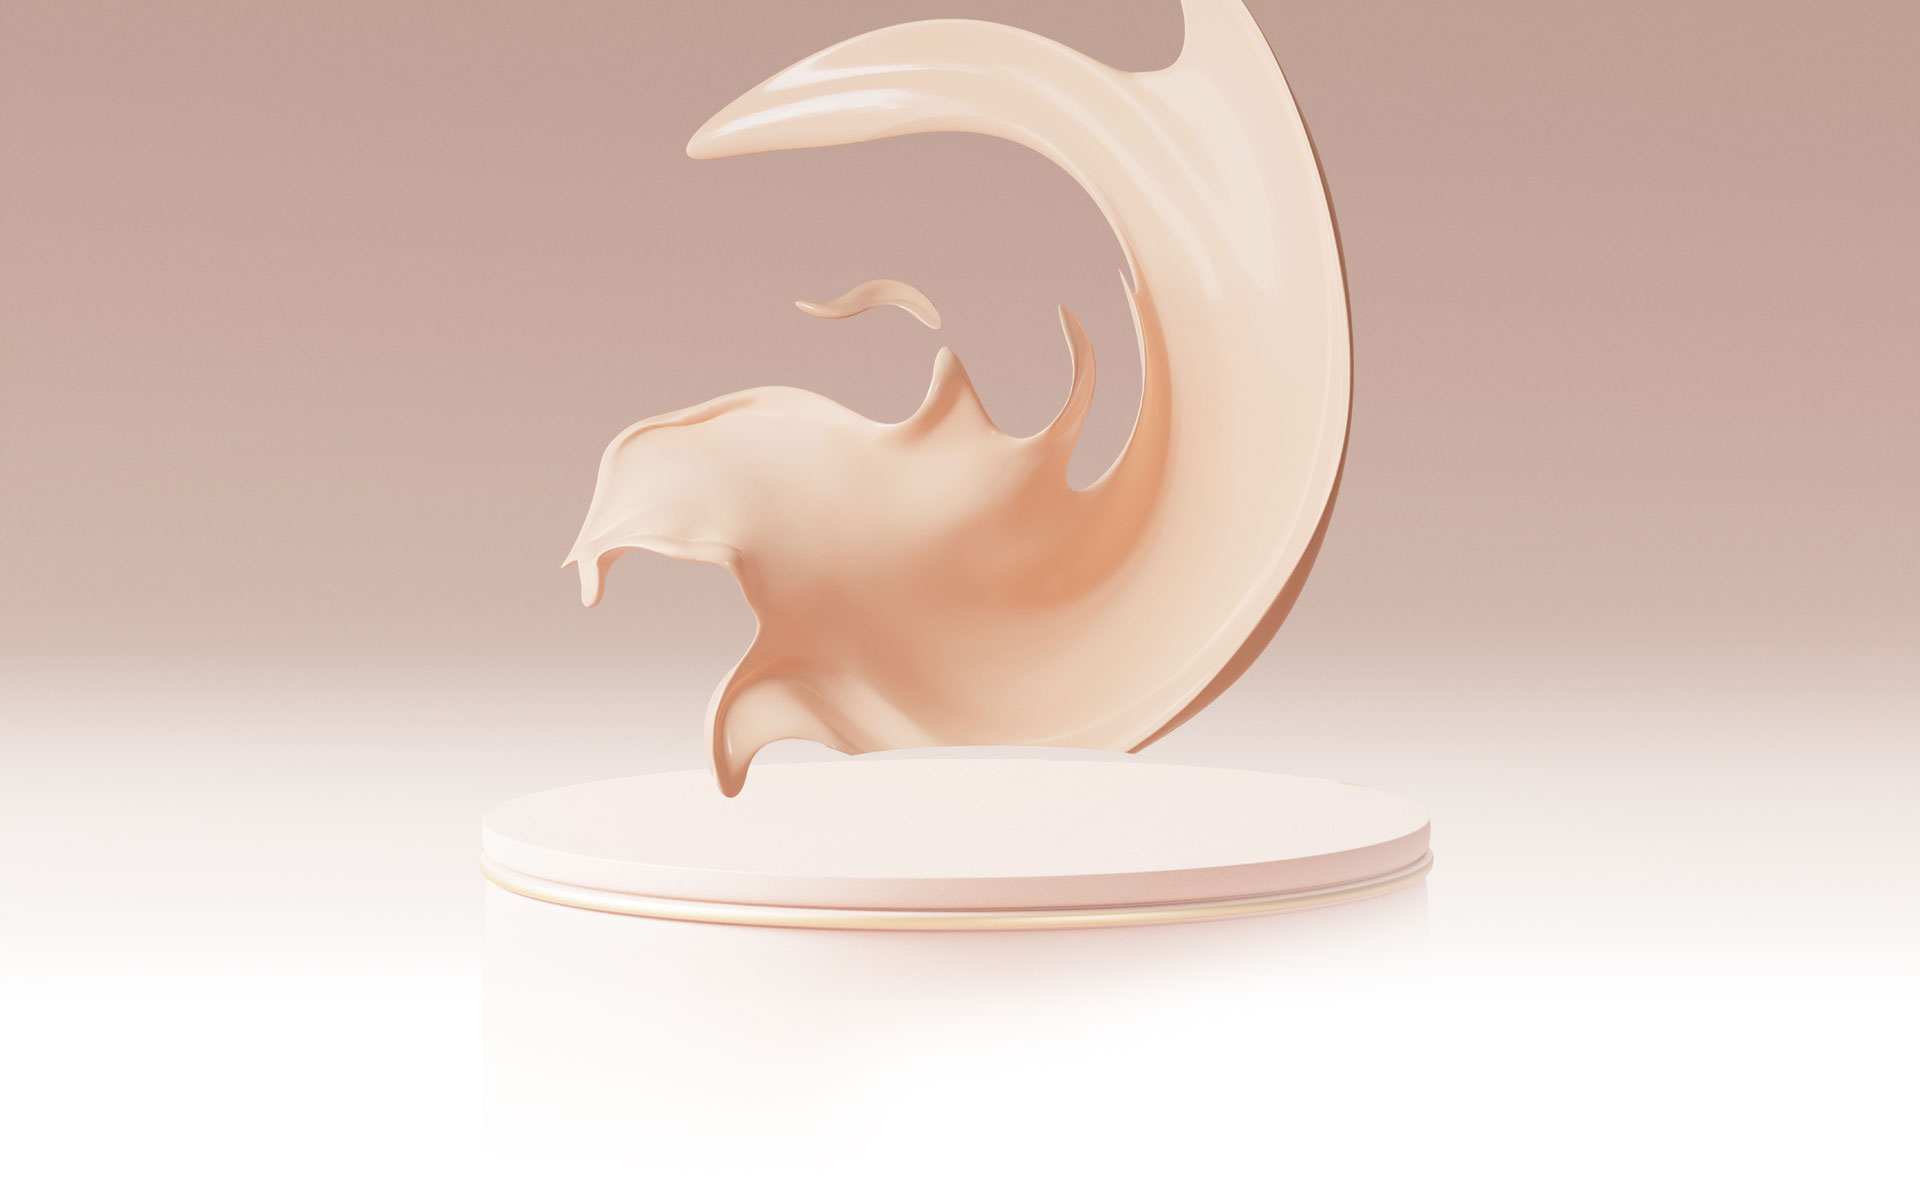
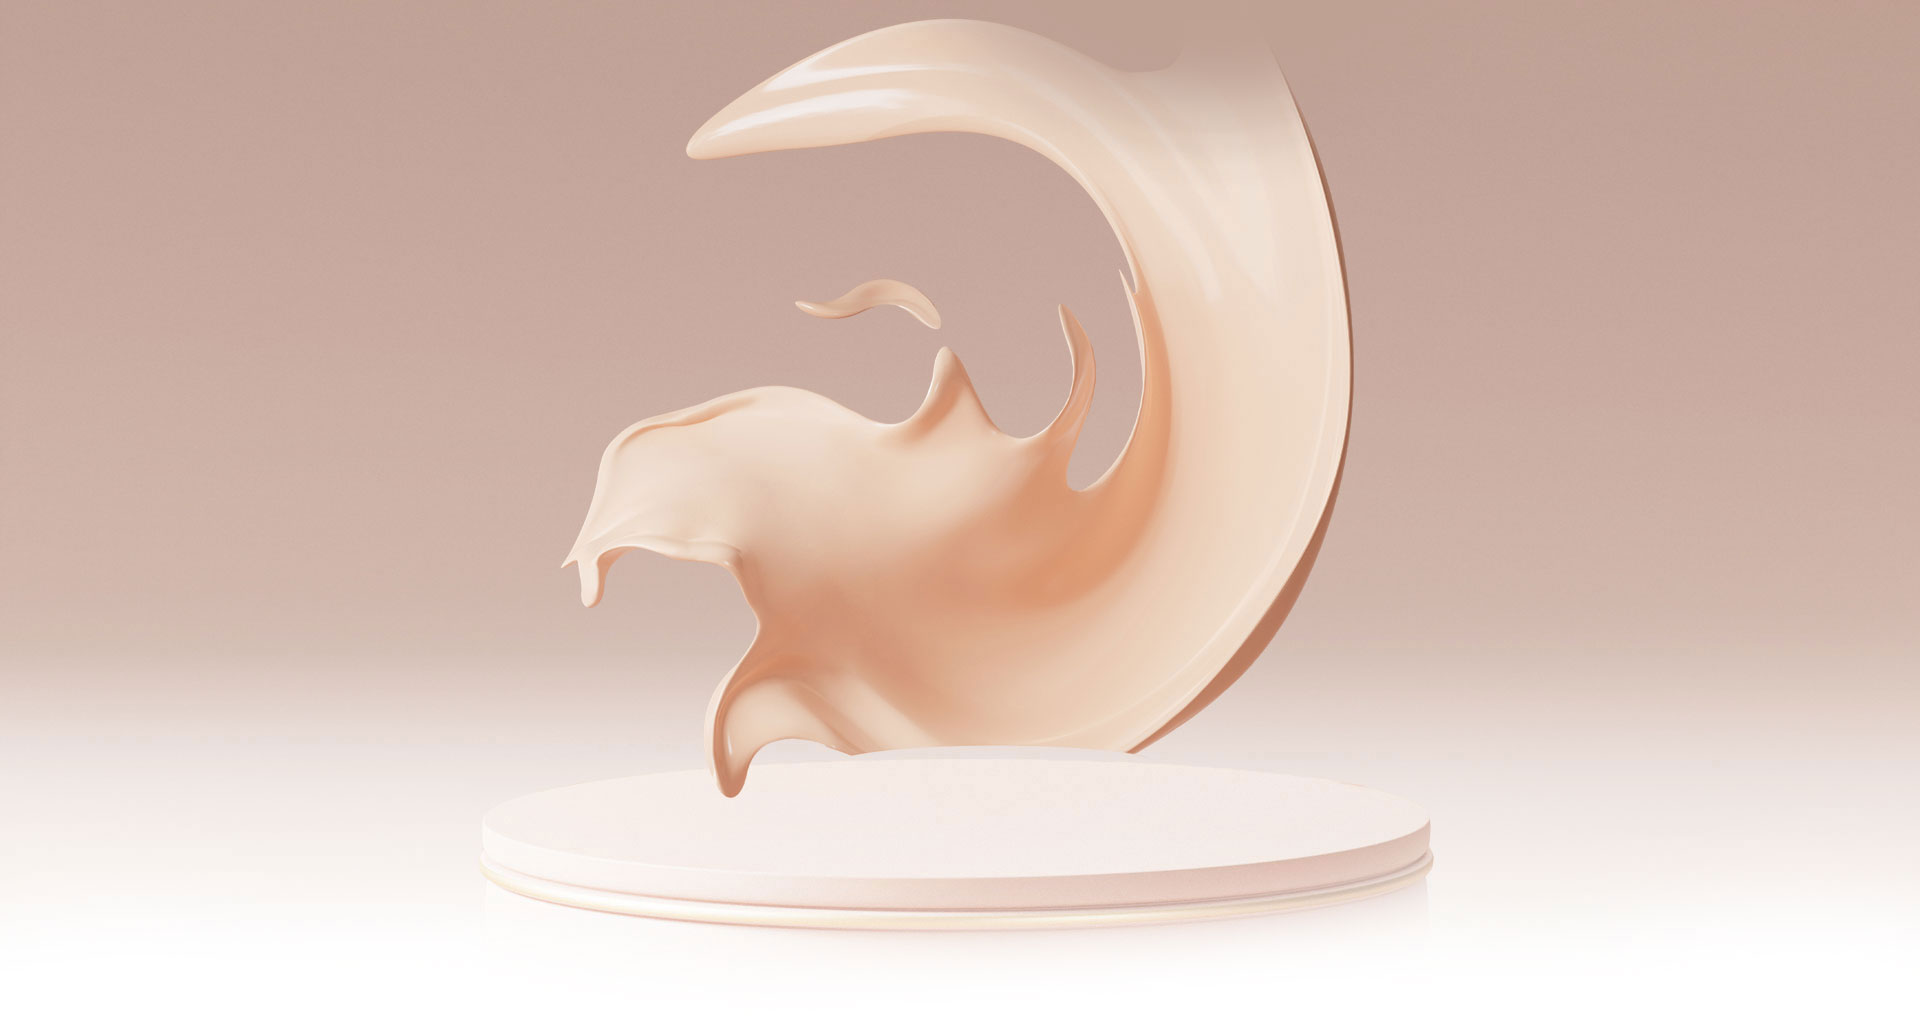
блок face не доделан

diff --git a/src/sass/block/face.scss b/src/sass/block/face.scss
@@ -6,9 +6,12 @@
 
 .face__box {
     flex: 0 0 auto;
+    width: 50%;
 }
 
 .face__logo {
+    margin-bottom: 30px;
+
     a {
         display: inline-block;
         text-transform: uppercase;
@@ -28,4 +31,122 @@
     max-width: 535px;
     text-transform: uppercase;
     line-height: 1.2;
+}
+
+.face__list {
+    max-width: 240px;
+}
+
+.face__list-item {
+    position: relative;
+    color: #1f1f1f;
+    padding-left: 45px;
+
+    &::before {
+        position: absolute;
+        top: 0;
+        left: 0;
+        width: 32px;
+        height: 32px;
+        background-image: url("../media/face/icon.png");
+        background-repeat: no-repeat;
+        content: '';
+    }
+
+    & + & {
+        margin-top: 30px;
+    }
+}
+
+.face__product {
+    position: absolute;
+    bottom: 145px;
+    left: 50%;
+    transform: translateX(-50%);
+    width: 857px;
+}
+
+@media (max-width: 1280px) {
+    .face__title {
+        font-size: 34px;
+    }
+
+    .face__product {
+        max-width: 700px;
+    }
+
+    .face__list-item {
+        background-color: rgb(227, 199, 192);
+        padding: 10px 10px 10px 50px;
+        border-radius: 15px 15px 0 15px;
+        font-size: 18px;
+
+        &::before {
+            top: 10px;
+            left: 10px;
+        }
+    }
+
+    .face__list {
+        max-width: 320px;
+    }
+}
+
+@media (max-width: 768px) {
+    .face {
+        flex-wrap: wrap;
+    }
+
+    .face__logo {
+        text-align: center;
+    }
+
+    .face__box {
+        width: 100%;
+    }
+
+    .face__title {
+        margin-bottom: 30px;
+        text-align: center;
+    }
+
+    .face__list {
+        max-width: 100%;
+        margin-bottom: 30px;
+    }
+
+    .face__list-item {
+        min-height: 52px;
+        border-radius: 0;
+        background-color: transparent;
+        padding-top: 0;
+        padding-right: 0;
+        padding-bottom: 0;
+
+        &::before {
+            top: 0;
+            left: 0;
+        }
+
+        & + & {
+            margin-top: 15px;
+        }
+    }
+
+    .face__product {
+        position: static;
+        transform: translateX(0);
+        margin-top: 100px;
+        margin-bottom: 50px;
+    }
+}
+
+@media (max-width: 480px) {
+    .face__title {
+        font-size: 26px;
+    }
+
+    .face__list-item {
+        font-size: 16px;
+    }
 }

diff --git a/src/sass/core/section.scss b/src/sass/core/section.scss
@@ -6,8 +6,12 @@
     background-repeat: no-repeat;
 
     &_face {
+        position: relative;
+        padding-top: 60px;
+        padding-bottom: 300px;
         background-image: url("../media/section/face.jpg");
-        background-position: center top;
+        background-position: center bottom;
+        background-color: #c1a097;
     }
 }
 
@@ -20,16 +24,30 @@
 }
 
 @media (max-width: 1280px) {
-    .section {}
+    .section {
+        &_face {
+            padding-bottom: 600px;
+        }
+    }
 }
 
 @media (max-width: 768px) {
     .section {
         padding-top: 30px;
         padding-bottom: 30px;
+
+        &_face {
+            background-image: url("../media/section/face-768.jpg");
+            background-position: center top;
+            background-color: #fff;
+        }
     }
 }
 
 @media (max-width: 480px) {
-    .section {}
+    .section {
+        &_face {
+            background-position: center -100px;
+        }
+    }
 }

diff --git a/src/sass/block/form.scss b/src/sass/block/form.scss
@@ -1,16 +1,11 @@
 
 .form {
     width: 100%;
-    max-width: 350px;
-    padding: 30px;
+    max-width: 320px;
+    padding: 35px;
     background-color: #fff;
     box-shadow: 0 0 20px rgba(0, 0, 0, 0.2);
     margin-left: auto;
-}
-
-.form__wrap {
-    padding: 25px;
-    border: 2px solid #d9a6b3;
 }
 
 .form__title {
@@ -133,11 +128,6 @@
 }
 
 @media (max-width: 1280px) {
-    .form {
-        margin-top: 40px;
-        margin-left: auto;
-    }
-
     .form__title {
         font-size: 24px;
     }
@@ -148,6 +138,7 @@
         padding: 30px;
         padding-top: 60px;
         max-width: 100%;
+        background-color: #ecedec;
     }
 
     .form__title  {
